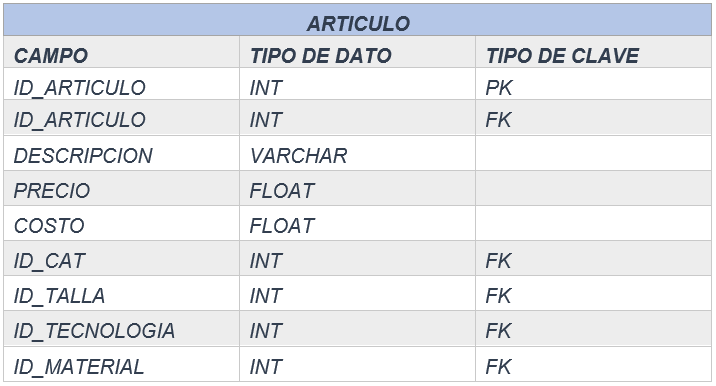
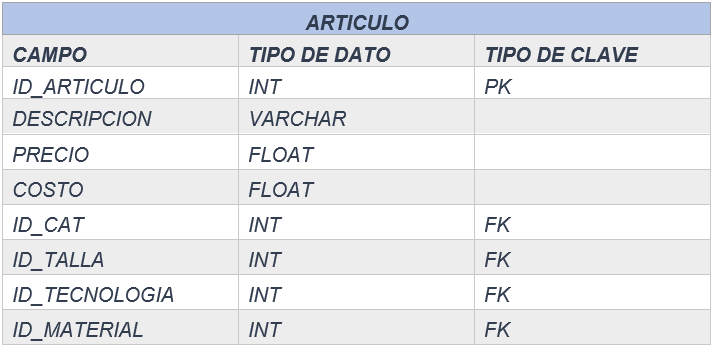
Documentacion

Changed region(s): [[0.0, 0.0, 1.0, 1.0], [0.6471, 0.6017, 0.7395, 0.6877], [0.6471, 0.4298, 0.6779, 0.4871]]

diff --git a/ReadMe.md b/ReadMe.md
@@ -2,23 +2,23 @@
 
 ## _***1. DESCRIPCION DEL SISTEMA DE VENTAS***_
 
-### En esta sección describiremos la problematica de un SkateShop para asi entender como es el flujo de los datos de las ventas y de los balances generales contables de la empresa, el skateshop tiene sucursales en 5 países de su region y distribuye sus productos en 21 ciudades dentro de estos países, Este se encarga de distribuir patinetas de diferentes marcas, modelos, tallas y tecnologías que se ajustan a las características de cada consumidor, para esto requerimos diseñar una base de datos donde podamos almacenar todos estos datos y asi tener un mayor entendimiento de estos
+### En esta sección describiremos el funcionamiento de las ventas en un SkateShop para asi entender como es el flujo de los datos de las ventas y de los balances generales contables de la empresa, el skateshop tiene sucursales en 5 países de su region y distribuye sus productos en 21 ciudades dentro de estos países, Este se encarga de distribuir patinetas de diferentes marcas, modelos, tallas y tecnologías que se ajustan a las características de cada consumidor, para esto requerimos diseñar una base de datos donde podamos almacenar toda esta informacion y asi tener un mayor entendimiento de como funciona la parte de ventas del skateshop
 
 ## _***1.1. CLIENTES:***_
 
 ### La empresa tiene 3 tipos de clientes potenciales
 
-### Franquicias de SkateShops, SkateShops Grandes, SkateShops Pequeños
+### Franquicias de SkateShops, SkateShops Grandes, SkateShops Pequeños a los cuales se distribuyen los productos que ordenan
 
 ## _***1.2. METODOS DE PAGO:***_
 
-### La empresa a su vez ofrece a dichos clientes varios métodos de pago a la hora de adquirir sus productos
+### La empresa a su vez ofrece a dichos clientes varios métodos de pago a la hora de adquirir sus productos entre ellos podemos encontrar
 
 ### Efectivo, Crédito, Debito, Cheques
 
 ## _***1.3. FACTURACIÓN:***_
 
-### Una vez el comprador decide hacer el pago del pedido al skateShop, este genera una factura de compra donde contendrá todos los datos de los productos adquiridos por el cliente, La factura será entregada al comprador de forma física y a su vez esta factura será almacenada en la base de datos para tener un registro de todas las ventas realizadas a lo largo de tiempo
+### Una vez el comprador decide hacer el pago del pedido al skateShop, este genera una factura de compra donde se guardaran todos los datos de los productos adquiridos por el cliente, La factura será entregada al comprador de forma física y a su vez esta factura será almacenada en la base de datos para tener un registro de todas las ventas realizadas a lo largo de tiempo
 
 ## _***1.4. EMPRESAS DE ENVIOS:***_
 
@@ -28,7 +28,7 @@
 
 ## _***1.5. METODOS DE PAGO:***_
 
-### Efectivo, Credito, Tranferencia, Cheque
+### entre losmetodos de pago que ofrece el skateShop se pueden encontrar los siguientes: Efectivo, Credito, Tranferencia, Cheque
 
 ## _***1.6. PRODUCTO:***_
 
@@ -42,7 +42,7 @@
 
 ### Alta, media, baja
 
-### La base de datos del skateshop nos debe permitir almacenar todos estos datos generados en las ventas para asi gestionar el flujo de los mismos de acuerdo a la facturacion obtenida por cada uno de los articulos que ofrece la empresa, esto es fundamental para ver cual es el comportamiento de las ventas a lo lardo del tiempo
+### La base de datos del skateshop nos debe permitir almacenar todos estos datos generados en las ventas para asi gestionar el flujo de los mismos de acuerdo a la facturacion obtenida por cada uno de los articulos que ofrece la empresa, esto es fundamental para ver como es el comportamiento de las ventas a lo lardo del tiempo
 
 ## 2. _***ENTIDADES Y ACTORES***_
 
@@ -54,7 +54,7 @@
 
 ## _***2.2. TECNOLOGIA***_
 
-### La entidad _***TECNOLOGIA***_ contiene la informacion de las tecnologias con las que estan fabricadas las patinetas que se ofrecen el el skateShop, esta entidad contiene los siguientes atributos
+### La entidad _***TECNOLOGIA***_ contiene la informacion de las tecnologias con las que estan fabricadas las patinetas que se ofrecen el skateShop, esta entidad contiene los siguientes atributos
 
 ### _***ID_Tecnologia***_ - _***Tecnologia***_
 
@@ -66,13 +66,13 @@
 
 ## _***2.4. MARCA***_
 
-### La entidad _***MARCA***_ contiene la informacion de todas las marcas que ofrece la empresa a sus clientes, esta entidd contiene los siguientes atributos
+### La entidad _***MARCA***_ contiene la informacion de todas las marcas que ofrece la empresa a sus clientes, esta entidad contiene los siguientes atributos
 
 ### _***ID_Marca***_ - _***Marca***_
 
-## _***2.5. EMPRESAS_DE_ENVIO***_
+## _***2.5. ENVIO***_
 
-### La entidad _***EMPRESAS_DE_ENVIO***_ contiene la informacion de las empresas por medio las cuales el skateShop realiza los envios de los productos a sus compradores, esta entidad contiene los siguientes atributos
+### La entidad _***ENVIO***_ contiene la informacion de las empresas por medio las cuales el skateShop realiza los envios de los productos a sus compradores, esta entidad contiene los siguientes atributos
 
 ### _***ID_Envio***_ - _***Envio***_
 
@@ -102,7 +102,7 @@
 
 ## _***2.10. TIPO_PAGO***_
 
-### La entidad _***TIPO_PAGO***_ contiene toda la informacion sobre los metodos de pago que loa clientes de la empresa pueden elegir para adquirir los articulos ofrecidos por la empresa, este entidad contiene los siguientes atributos
+### La entidad _***TIPO_PAGO***_ contiene toda la informacion sobre los metodos de pago que los clientes de la empresa pueden elegir para adquirir los articulos ofrecidos por la empresa, este entidad contiene los siguientes atributos
 
 ### _***ID_Pago***_ - _***Tipo_pago***_
 
@@ -110,9 +110,9 @@
 
 ### La entidad _***CLIENTE***_ contiene toda la información de los clientes que compran los productos de la empresa, para asi poder hacer el envio correspondiente, esta entidad contiene los siguientes atributos
 
-### _***- ID_Cliente***_ - _***ID_Envio***_ - _***ID_Pais***_ - _***ID_Ciudad***_ - _***Nombre_Cliente***_
+### _***- ID_Cliente***_ - _***ID_Envio***_ - _***ID_Pais***_ - _***ID_Ciudad***_ - _***Nombre_Cliente***_ - _***EMAIL***_
 
-## _***2.12. PRODUCTO***_
+## _***2.12. ARTICULO***_
 
 ### Contiene toda la información de los productos que ofrece la distribuidora de patinetas a sus clientes, Esta entidad contiene los siguientes atributos
 
@@ -136,58 +136,62 @@
 
 ## _***4. TABLAS USADAS EN LA BASE DE DATOS PARA EL SISTEMA DE FACTURACION***_
 
-## _***4.1. MATERIAL***_
+## _***4.1. MATERIAL:***_ Contiene la información del material con el que estan fabricadas las patinetas que se distribuyen por el skateShop, esta tabla se relaciona con la tabla _***ARTICULO***_
 
 ![Material](./img/Material.png)
 
-## _***4.2. TECNOLOGIA***_
+## _***4.2. TECNOLOGIA:***_ Contiene la informacion de las tecnologias con las que estan fabricadas las patinetas que se ofrecen el skateShop, esta tabla se realciona con la tabla _***ARTICULO***_
 
 ![Tecnologia](./img/tecnologia.png)
 
-## _***4.3. TALLA***_
+## _***4.3. TALLA:***_ Contiene la informacion de todas las tallas disponibles en los articulos ofrecidos por la empresa, esta  tabla se relaciona con la tabla _***ARTICULO***_
 
 ![Talla](./img/talla.png)
 
-## _***4.4. MARCA***_
+## _***4.4. MARCA:***_ Contiene la informacion de todas las marcas que ofrece la empresa a sus clientes, esta tabla se relaciona con la tabla _***ARTICULO***_
 
 ![Marca](./img/Marca.png)
 
-## _***4.5. ENVIO***_
+## _***4.5. ENVIO:***_ Contiene la informacion de las empresas por medio las cuales el skateShop realiza los envios de los productos a sus compradores, Esta tabla se relaciona con la tabla _***CLIENTE***_
 
 ![Envio](./img/envio.png)
 
-## _***4.6. CIUDAD***_
+## _***4.6. CIUDAD:***_ Contiene la informacion de las ciudades donde se localizan los clientes del skateShop, esta tabla se relaciona con las tablas _***CLIENTE & Facturacion***_
 
 ![Ciudad](./img/ciudad.png)
 
-## _***4.7. PAIS***_
+## _***4.7. PAIS:***_ Contiene la informacion de los paises donde se encuentran los clientes de la empresa, esta tabla se relaciona con las tablas _***CLIENTE & Facturacion***_
 
 ![Pais](./img/pais.png)
 
-## _***4.8. TIPO_CLIENTE***_
+## _***4.8. TIPO_CLIENTE:***_ Contiene la informacion sobre el tipo de clientes que tiene la empresa, esta tabla se relaciona con la tabla _***FACTURACION***_
 
 ![Tipo_Cliente](./img/tipo_cliente.png)
 
-## _***4.9. CATEGORIA_ARTICULO***_
+## _***4.9. CATEGORIA_ARTICULO:***_ Contiene toda la información de la gamma de los productos vendidos en la empresa, esta tabla se relaciona con la tabla _***ARTICULO***_
 
 ![Categoria_Articulo](./img/CAT_ART.png)
 
-## _***4.10. TIPO_PAGO***_
+## _***4.10. TIPO_PAGO:***_ Contiene toda la informacion sobre los metodos de pago que los clientes de la empresa pueden elegir para adquirir los articulos ofrecidos por la empresa, esta tabla se relaciona con las tablas _***FACTURA & FACTURACION***_
 
 ![tipo_pago](./img/tipopago.png)
 
-## _***4.11. CLIENTE***_
+## _***4.11. CLIENTE:***_ Contiene toda la información de los clientes que compran los productos de la empresa, esta tabla se relaciona con la tabla _***FACTURACION***_
 
 ![Cliente](./img/cliente.png)
 
-## _***4.12. ARTICULO***_
+## _***4.12. ARTICULO:***_ Contiene toda la informacion sobre los articulos que se venden en el skateShop, esta tabla se relaciona con la tabla _***FACTURACION***_
 
 ![articulo](./img/articulo.png)
 
-## _***4.13. FACTURA***_
+## _***4.13. FACTURA:***_ Contiene toda la información de los productos que ofrece la distribuidora de patinetas a sus clientes, esta tabla se relaciona con la tabla _***FACTURACION***_
 
 ![Factura](./img/FACT.png)
 
-## _***4.14. FACTURACION***_
+## _***4.14. FACTURACION:***_  Se comporta como la tabla de hechos de nuestro sistema y contiene toda la informacion sobre las ventas que se han generado en el ciclo de vida del skateShop
 
 ![Facturacion](./img/FACTURACION.png)
+
+## 5. MODELO RELACIONAL
+
+![Modelo_Relacional](./img/modelorelacional.png)
